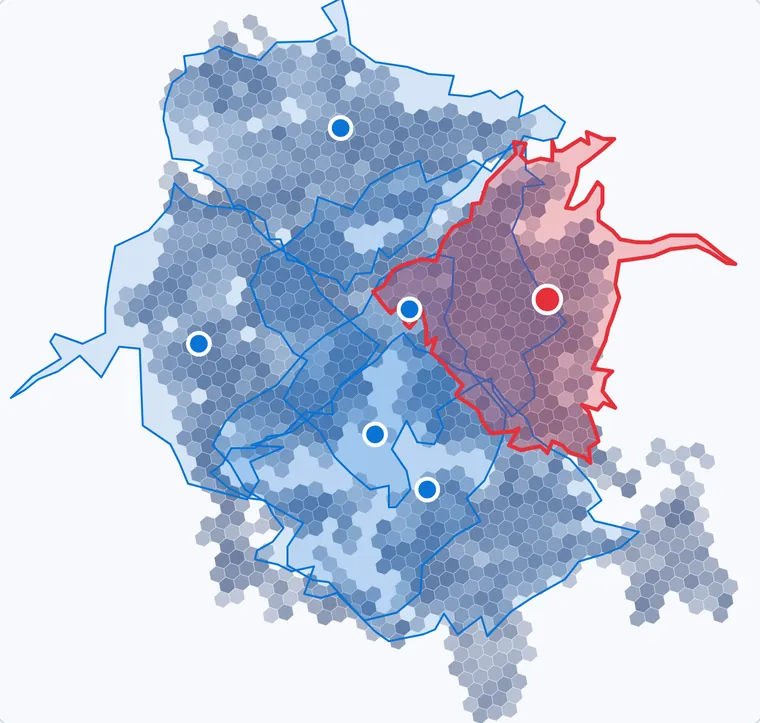
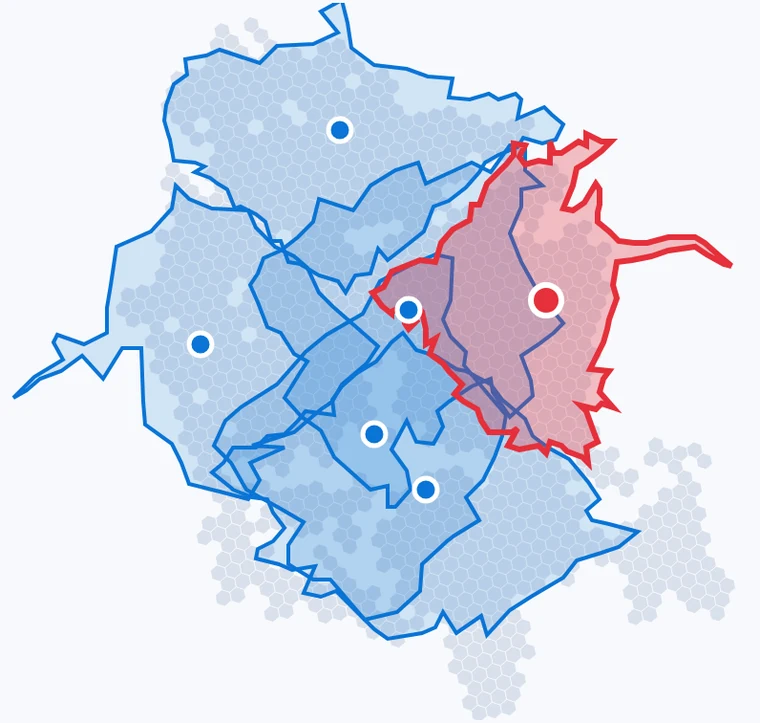
Fix the CARTO scale bar and add the gaps map to the site search
The shared framing spans about 50 km (the 8 km rings measure 127.5 px on
796 px), so 5 km is 10% of the width, not 12.5%. Add the "gaps" map
(cells more than 8 km from every hub) before the candidate score, and
swap in the cleaner drive-time map for the proposed sixth hub.

AI-Model: claude

diff --git a/data/conversations.js b/data/conversations.js
@@ -58,7 +58,7 @@ function cartoMap(image, title, summary, labels, opts) {
     summary: summary,
     layerLabel: opts.layer || "H3 res 8 · residents",
     scale: "5 km",
-    scaleWidth: "12.5%",
+    scaleWidth: "10%",
     pins: (labels || []).map(function (p) { return { label: p.label, x: p.x, y: p.y, status: "label", flip: !!p.flip }; }),
     disclosure:
       (opts.source || "Drawn by the assistant from this session's CARTO query results · residents: Kontur Population (H3 res 8)") +
@@ -5605,6 +5605,20 @@ window.CONVERSATIONS = {
             return c.rank + " · " + c.h3 + " · " + c.lat.toFixed(4) + ", " + c.lon.toFixed(4) + " · " + c.uncovered8km.toLocaleString("en-US");
           }).join("\n"),
         },
+        {
+          type: "assistant",
+          text:
+            "Here's what counts as uncovered: the red cells are more than " + C.sixthHub.gapKm + " km from every hub. The second map " +
+            "scores each spot by how many of those residents live within " + C.sixthHub.gapKm + " km of it.",
+        },
+        cartoMap(
+          "carto-gaps.webp",
+          "Gaps · more than " + C.sixthHub.gapKm + " km from the nearest hub",
+          "Red = populated cells more than " + C.sixthHub.gapKm + " km in a straight line from every hub · dashed rings = " +
+            C.sixthHub.gapKm + " km around each hub",
+          null,
+          { layer: "H3 res 8 · uncovered (> " + C.sixthHub.gapKm + " km)" }
+        ),
         cartoMap(
           "carto-site-score.webp",
           "Candidate score · uncovered residents within " + C.sixthHub.gapKm + " km",
